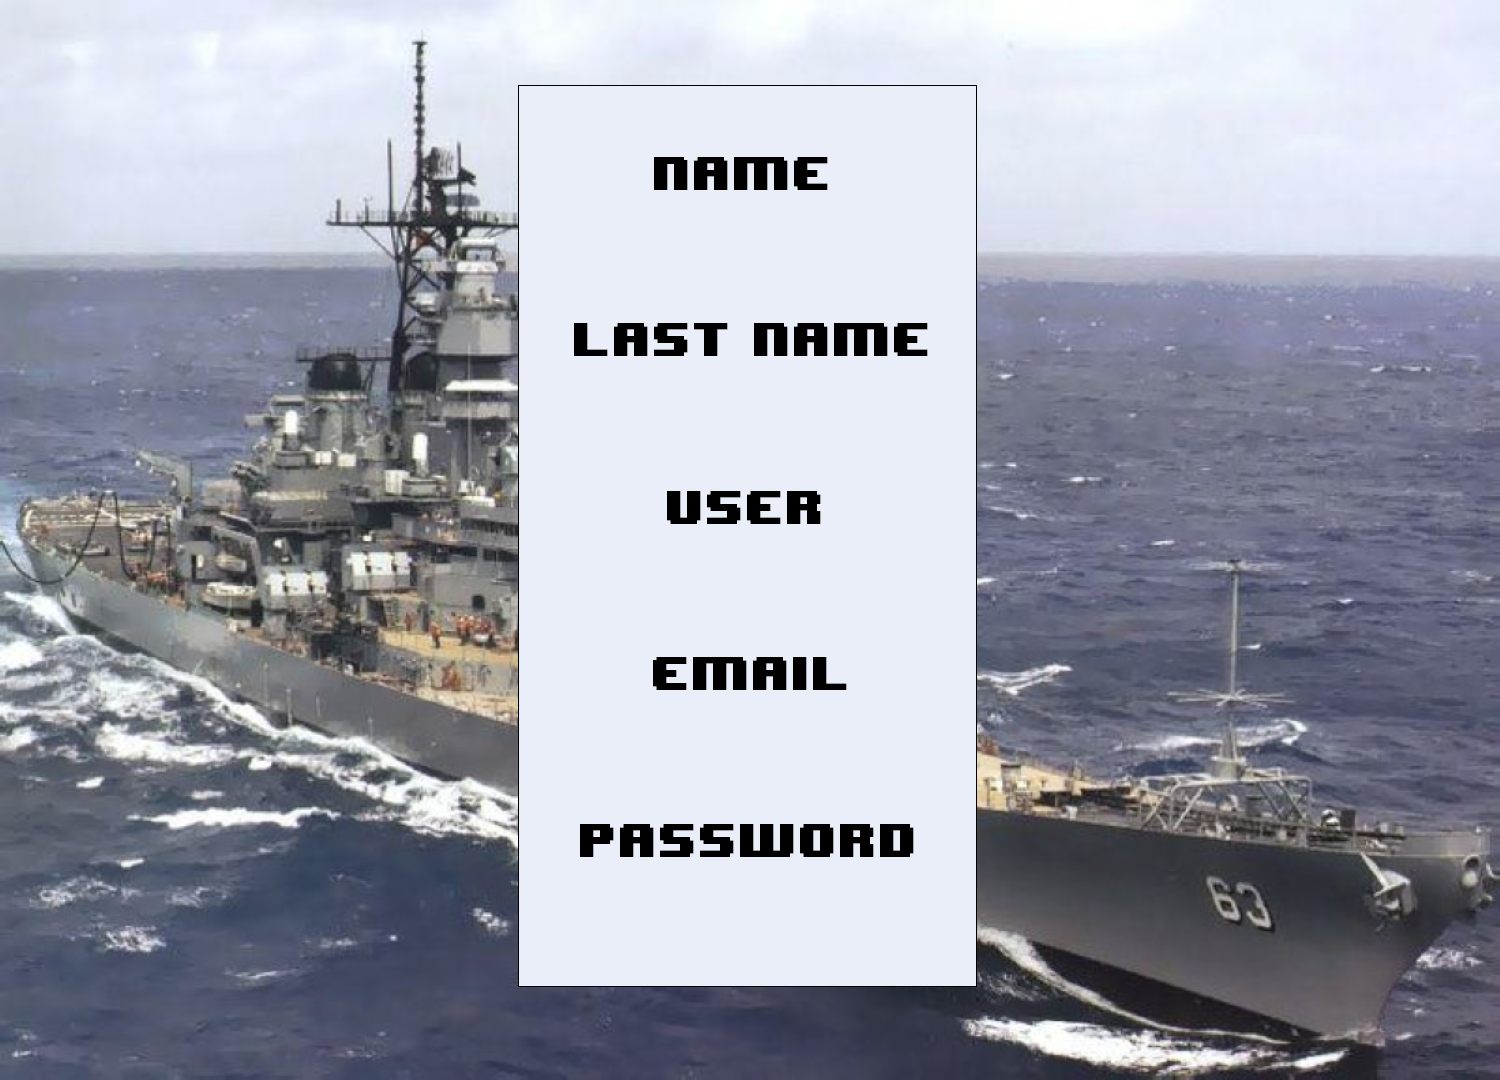
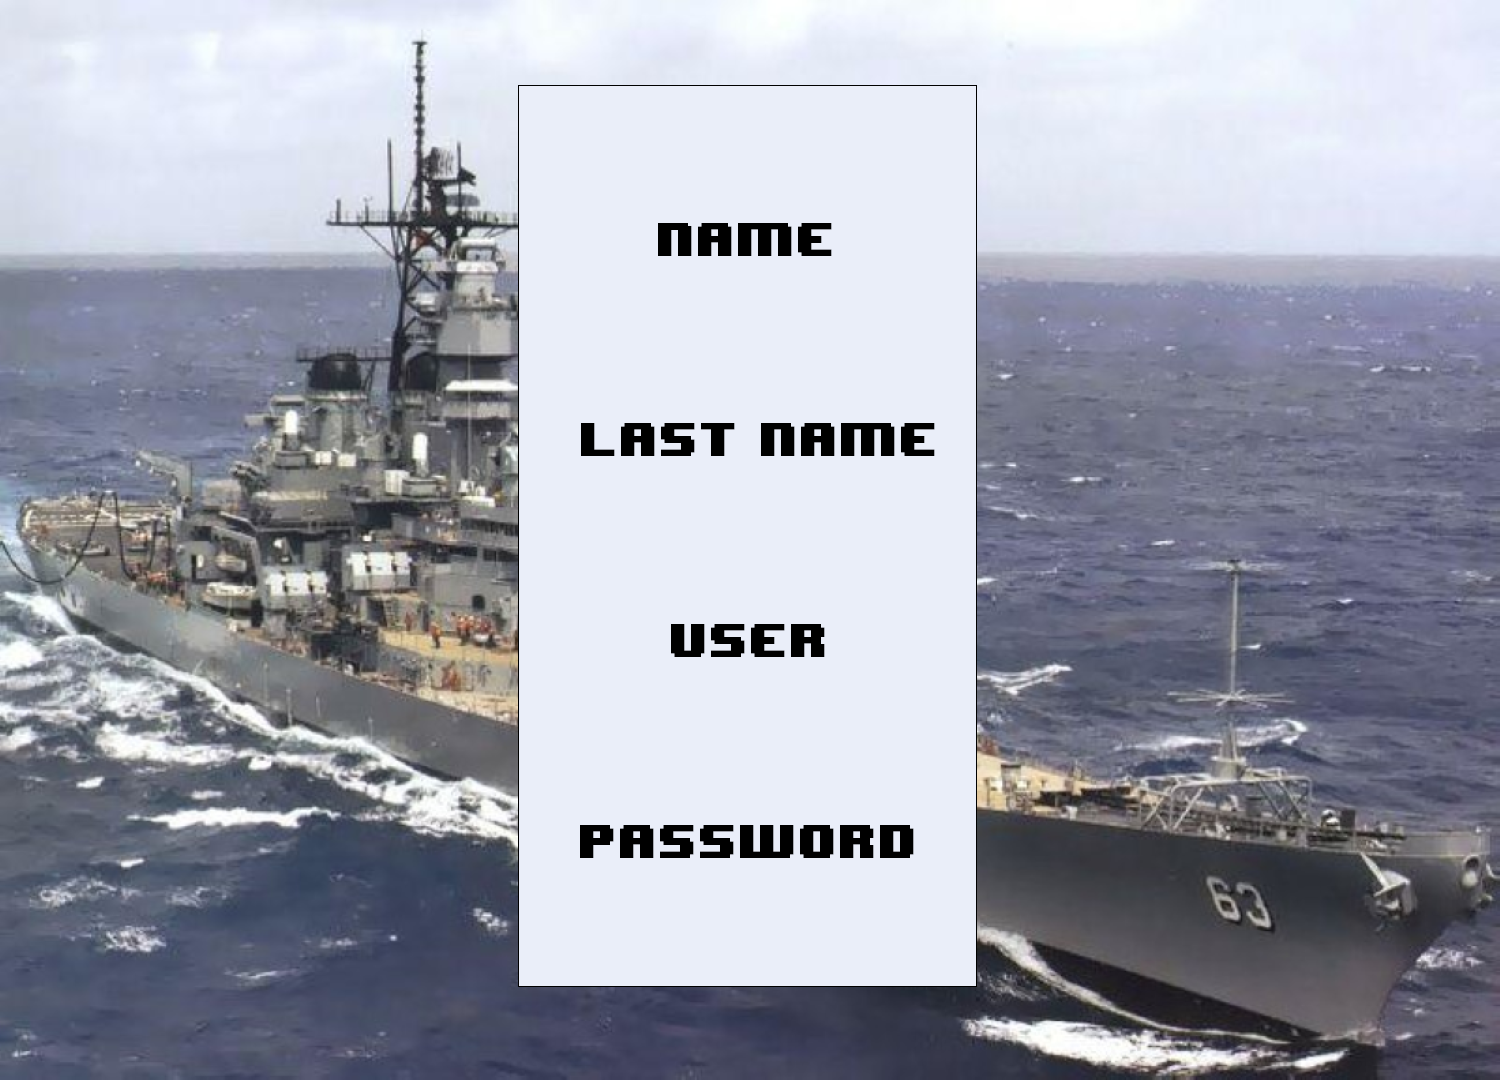
Se acomodaron los labes del register y se cambio la imagen de fondo de la ventana

diff --git a/main.py b/main.py
@@ -51,23 +51,26 @@ Registro_C = tk.Canvas(window, width = 1500, height = 1000, bg ="Gray")
 #Imagenes
 ###################################################
 
+#Imagen de registro
+Reg_image = tk.PhotoImage(file = "Images\Bg\Register_bg.png")
+
 #Imagen de About
-About_Image = tk.PhotoImage(file = "Bar.png")
+About_Image = tk.PhotoImage(file = "Images\Bar.png")
 About_C.create_image(750, 500, image = About_Image)
 
 #Fondo de la ventana
-Bg = tk.PhotoImage(file = "WarShip.png")
+Bg = tk.PhotoImage(file = "Images\Bg\WarShip.png")
 Inicio_C.create_image(750, 500, image = Bg)
 
 #Logo de la ventana
-Logo = tk.PhotoImage(file = "WarShip_logo.png")
+Logo = tk.PhotoImage(file = "Images\WarShip_logo.png")
 Inicio_C.create_image(750, 300, image = Logo)
 
 #Imagenes de los barcos
-Ship_1 = tk.PhotoImage(file = "Ship_1.png")
-Ship_2 = tk.PhotoImage(file = "Ship_2.png")
-Ship_3 = tk.PhotoImage(file = "Ship_3.png")
-Ship_4 = tk.PhotoImage(file = "Ship_4.png")
+#Ship_1 = tk.PhotoImage(file = "C:\Users\Xpc\Documents\GitHub\BattleShipSecondProject\Images\Ships\Ship_1.png")
+Ship_2 = tk.PhotoImage(file = "Images\Ships\Ship_2.png")
+Ship_3 = tk.PhotoImage(file = "Images\Ships\Ship_3.png")
+Ship_4 = tk.PhotoImage(file = "Images\Ships\Ship_4.png")
 #Ship_5 = tk.PhotoImage(file = "Ship_5.png")
 ###################################################
 
@@ -118,16 +121,16 @@ def reg_screen():
     Registro_C.place(x=0, y=0)
     Registro_C.focus_force()
 
+    Registro_C.create_image(750,500, image = Reg_image)
+
     Name_E = tk.Entry(Registro_C, justify=tk.LEFT, width=10, font=font_entry, bd=3)
-    Name_E.place(x=200, y=600, anchor="center")
+    Name_E.place(x=750, y=250, anchor="center")
     L_Name_E = tk.Entry(Registro_C, justify=tk.LEFT, width=10, font=font_entry, bd=3)
-    L_Name_E.place(x=400, y=600, anchor="center")
+    L_Name_E.place(x=750, y=450, anchor="center")
     User_E = tk.Entry(Registro_C, justify=tk.LEFT, width=10, font=font_entry, bd=3)
-    User_E.place(x=600, y=600, anchor="center")
+    User_E.place(x=750, y=650, anchor="center")
     Password_E = tk.Entry(Registro_C, justify=tk.LEFT, width=10, font=font_entry, bd=3)
-    Password_E.place(x=800, y=600, anchor="center")
-    Email_E = tk.Entry(Registro_C, justify=tk.LEFT, width=10, font=font_entry, bd=3)
-    Email_E.place(x=1000, y=600, anchor="center")
+    Password_E.place(x=750, y=850, anchor="center")
 
     def back():
         Registro_C.place_forget()
